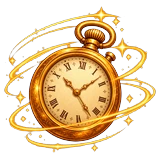
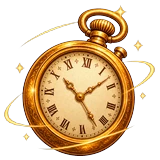
Emblemas de cabecera de Cálculo Turbo y Contrarreloj: versiones finales con transparencia limpia
Claude-Session: https://claude.ai/code/session_019qqTirXMj9sHEJCbD9nmLh

diff --git a/index.html b/index.html
@@ -49,21 +49,21 @@
 <!-- Tipografía: Playfair Display para el "display" institucional (nombre de la
      app / títulos), Inter para toda la interfaz funcional. Alojadas en la propia app
      (styles/fonts.css, assets/fonts/): funcionan sin conexión y no dependen de Google. -->
-<link rel="stylesheet" href="styles/fonts.css?v=431">
+<link rel="stylesheet" href="styles/fonts.css?v=432">
 <link rel="preload" href="assets/fonts/inter-latin.woff" as="font" type="font/woff" crossorigin>
-<link rel="stylesheet" href="styles/main.css?v=431">
+<link rel="stylesheet" href="styles/main.css?v=432">
 <!-- v1.4: estilos de la capa online (cuenta, migración, ranking). Solo clases .seq-* -->
-<link rel="stylesheet" href="styles/online.css?v=431">
-<link rel="stylesheet" href="styles/results-frame.css?v=431">
-<link rel="stylesheet" href="styles/visual-2-3.css?v=431">
-<link rel="stylesheet" href="styles/light-refresh.css?v=431">
-<link rel="stylesheet" href="styles/encargos.css?v=431">
-<link rel="stylesheet" href="styles/encargos-intro.css?v=431">
-<link rel="stylesheet" href="styles/duel-intro.css?v=431">
-<link rel="stylesheet" href="styles/sir-events.css?v=431">
-<link rel="stylesheet" href="styles/reward-toast.css?v=431">
-<link rel="stylesheet" href="styles/theme.css?v=431">
-<link rel="stylesheet" href="styles/privacy.css?v=431">
+<link rel="stylesheet" href="styles/online.css?v=432">
+<link rel="stylesheet" href="styles/results-frame.css?v=432">
+<link rel="stylesheet" href="styles/visual-2-3.css?v=432">
+<link rel="stylesheet" href="styles/light-refresh.css?v=432">
+<link rel="stylesheet" href="styles/encargos.css?v=432">
+<link rel="stylesheet" href="styles/encargos-intro.css?v=432">
+<link rel="stylesheet" href="styles/duel-intro.css?v=432">
+<link rel="stylesheet" href="styles/sir-events.css?v=432">
+<link rel="stylesheet" href="styles/reward-toast.css?v=432">
+<link rel="stylesheet" href="styles/theme.css?v=432">
+<link rel="stylesheet" href="styles/privacy.css?v=432">
 
 </head>
 <body class="on-home">
@@ -1151,59 +1151,59 @@ try {
 <!-- Fase 2: datos y constantes extraidos a modulos, cargados como scripts
      clasicos (no ES Modules) para conservar el scope global compartido con
      el script principal, sin convertir todavia la app a ES Modules. -->
-<script src="src/data/ui-maps.js?v=431"></script>
-<script src="src/data/questions.js?v=431"></script>
-<script src="src/data/questions-retired.js?v=431"></script>
-<script src="src/data/phrases.js?v=431"></script>
-<script src="src/data/duel-phrases.js?v=431"></script>
-<script src="src/data/lucidez.js?v=431"></script>
-<script src="src/data/medals.js?v=431"></script>
+<script src="src/data/ui-maps.js?v=432"></script>
+<script src="src/data/questions.js?v=432"></script>
+<script src="src/data/questions-retired.js?v=432"></script>
+<script src="src/data/phrases.js?v=432"></script>
+<script src="src/data/duel-phrases.js?v=432"></script>
+<script src="src/data/lucidez.js?v=432"></script>
+<script src="src/data/medals.js?v=432"></script>
 <!-- Prompt 3 — Fase C: sistema de avatares compartido (window.SEQAvatars). Debe
      cargarse antes de src/online/online.js y src/online/duels.js: ambos lo
      consumen en vez de mantener cada uno su propia copia de la lista. -->
-<script src="src/data/avatars.js?v=431"></script>
-<script src="src/share/share-card.js?v=431"></script>
+<script src="src/data/avatars.js?v=432"></script>
+<script src="src/share/share-card.js?v=432"></script>
 
 <!-- Fase 3 (Lote 3A): motor de coincidencia de respuestas extraido a
      src/utils/matching.js, mismo criterio que la Fase 2 (script clasico,
      sin ES Modules todavia). -->
-<script src="src/utils/matching.js?v=431"></script>
-<script src="src/utils/review-batch.js?v=431"></script>
-<script src="src/utils/records-reset.js?v=431"></script>
-<script src="src/utils/answer-alias.js?v=431"></script>
-<script src="src/utils/lucidez-select.js?v=431"></script>
-<script src="src/state/lucidez-bag.js?v=431"></script>
-<script src="src/state/timetrial-bag.js?v=431"></script>
-<script src="src/utils/encargos-core.js?v=431"></script>
-<script src="src/utils/encargos-progress.js?v=431"></script>
-<script src="src/state/encargos.js?v=431"></script>
-<script src="src/data/encargos-phrases.js?v=431"></script>
-<script src="src/ui/encargos-ui.js?v=431"></script>
-<script src="src/data/named-phrases.js?v=431"></script>
-<script src="src/utils/named-phrases.js?v=431"></script>
-<script src="src/utils/encargos-intro-core.js?v=431"></script>
-<script src="src/data/encargos-intro-phrases.js?v=431"></script>
-<script src="src/ui/encargos-intro.js?v=431"></script>
-<script src="src/ui/duel-intro.js?v=431"></script>
-<script src="src/data/home-quotes.js?v=431"></script>
-<script src="src/ui/home-quote.js?v=431"></script>
-<script src="src/utils/sir-events.js?v=431"></script>
-<script src="src/ui/sir-events-ui.js?v=431"></script>
-<script src="src/state/sir-events.js?v=431"></script>
-<script src="src/utils/sudden-progression.js?v=431"></script>
-<script src="src/utils/mental-calc.js?v=431"></script>
-<script src="src/utils/mental-classic.js?v=431"></script>
-<script src="src/utils/mental-tips.js?v=431"></script>
-<script src="src/ui/mental-classic-ui.js?v=431"></script>
-<script src="src/ui/mental-menu.js?v=431"></script>
-<script src="src/ui/level-up.js?v=431"></script>
+<script src="src/utils/matching.js?v=432"></script>
+<script src="src/utils/review-batch.js?v=432"></script>
+<script src="src/utils/records-reset.js?v=432"></script>
+<script src="src/utils/answer-alias.js?v=432"></script>
+<script src="src/utils/lucidez-select.js?v=432"></script>
+<script src="src/state/lucidez-bag.js?v=432"></script>
+<script src="src/state/timetrial-bag.js?v=432"></script>
+<script src="src/utils/encargos-core.js?v=432"></script>
+<script src="src/utils/encargos-progress.js?v=432"></script>
+<script src="src/state/encargos.js?v=432"></script>
+<script src="src/data/encargos-phrases.js?v=432"></script>
+<script src="src/ui/encargos-ui.js?v=432"></script>
+<script src="src/data/named-phrases.js?v=432"></script>
+<script src="src/utils/named-phrases.js?v=432"></script>
+<script src="src/utils/encargos-intro-core.js?v=432"></script>
+<script src="src/data/encargos-intro-phrases.js?v=432"></script>
+<script src="src/ui/encargos-intro.js?v=432"></script>
+<script src="src/ui/duel-intro.js?v=432"></script>
+<script src="src/data/home-quotes.js?v=432"></script>
+<script src="src/ui/home-quote.js?v=432"></script>
+<script src="src/utils/sir-events.js?v=432"></script>
+<script src="src/ui/sir-events-ui.js?v=432"></script>
+<script src="src/state/sir-events.js?v=432"></script>
+<script src="src/utils/sudden-progression.js?v=432"></script>
+<script src="src/utils/mental-calc.js?v=432"></script>
+<script src="src/utils/mental-classic.js?v=432"></script>
+<script src="src/utils/mental-tips.js?v=432"></script>
+<script src="src/ui/mental-classic-ui.js?v=432"></script>
+<script src="src/ui/mental-menu.js?v=432"></script>
+<script src="src/ui/level-up.js?v=432"></script>
 
 <!-- Fase 3 (Lote 3B): nucleo algoritmico de Duelo extraido a
      src/utils/duel.js, mismo criterio que el resto (script clasico, sin
      ES Modules todavia). Las dependencias compartidas con otros modos
      (arrangeStandardBlock, generateLucidezMentalOp)
      permanecen en este script principal, sin moverse en este lote. -->
-<script src="src/utils/duel.js?v=431"></script>
+<script src="src/utils/duel.js?v=432"></script>
 
 <!-- Fase 3 (Lote 3C): defaults, migracion y saneamiento del Store
      extraidos a src/utils/store.js, mismo criterio que el resto (script
@@ -1215,60 +1215,60 @@ try {
      getLevelData) y las 8 funciones de persistencia real (loadStore,
      saveStore, exportProgress...) permanecen en este script principal,
      sin moverse en este lote. -->
-<script src="src/utils/store.js?v=431"></script>
+<script src="src/utils/store.js?v=432"></script>
 
 <!-- Fase 4B: fachada de estado de solo lectura (getStore/getCurrentGame),
      mismo criterio que el resto (script clasico, sin ES Modules todavia).
      No copia, no transforma, no cachea. Ver src/state/read-facade.js. -->
-<script src="src/state/read-facade.js?v=431"></script>
+<script src="src/state/read-facade.js?v=432"></script>
 
-<script src="src/utils/streak-xp.js?v=431"></script>
+<script src="src/utils/streak-xp.js?v=432"></script>
 <!-- Fase 4C: helpers minimos de escritura (pushCapped, resetStreak) para
      eliminar 2 duplicaciones reales concretas -- no un sistema de
      mutaciones. Ver src/state/write-helpers.js y CHANGELOG_FASE4C.md. -->
-<script src="src/state/write-helpers.js?v=431"></script>
+<script src="src/state/write-helpers.js?v=432"></script>
 
 <!-- v1.4: capa online (cuenta Google, sincronización, migración, ranking).
      config.js es PÚBLICO (URL del Worker + Client ID de Google); si está
      vacío, la capa online queda desactivada y la app es idéntica a la v1.3.
      online.js solo usa el store/funciones del juego en tiempo de ejecución. -->
-<script src="src/ui/install-app.js?v=431"></script>
-<script src="src/share/invite.js?v=431"></script>
-<script src="src/ui/reward-toast.js?v=431"></script>
-<script src="src/ui/privacy.js?v=431"></script>
-<script src="src/ui/a11y.js?v=431"></script>
-<script src="src/ui/back-nav.js?v=431"></script>
-<script src="src/ui/game-fx.js?v=431"></script>
-<script src="src/ui/last-life.js?v=431"></script>
-<script src="src/ui/hitos.js?v=431"></script>
-<script src="src/ui/achievements.js?v=431"></script>
-<script src="src/ui/stats-extra.js?v=431"></script>
-<script src="src/ui/name-prompt.js?v=431"></script>
-<script src="src/ui/intro.js?v=431"></script>
-<script src="src/ui/mode-badges.js?v=431"></script>
-<script src="src/ui/lucidez-ui.js?v=431"></script>
-<script src="src/ui/sabias.js?v=431"></script>
-<script src="src/ui/icons.js?v=431"></script>
-<script src="src/online/config.js?v=431"></script>
+<script src="src/ui/install-app.js?v=432"></script>
+<script src="src/share/invite.js?v=432"></script>
+<script src="src/ui/reward-toast.js?v=432"></script>
+<script src="src/ui/privacy.js?v=432"></script>
+<script src="src/ui/a11y.js?v=432"></script>
+<script src="src/ui/back-nav.js?v=432"></script>
+<script src="src/ui/game-fx.js?v=432"></script>
+<script src="src/ui/last-life.js?v=432"></script>
+<script src="src/ui/hitos.js?v=432"></script>
+<script src="src/ui/achievements.js?v=432"></script>
+<script src="src/ui/stats-extra.js?v=432"></script>
+<script src="src/ui/name-prompt.js?v=432"></script>
+<script src="src/ui/intro.js?v=432"></script>
+<script src="src/ui/mode-badges.js?v=432"></script>
+<script src="src/ui/lucidez-ui.js?v=432"></script>
+<script src="src/ui/sabias.js?v=432"></script>
+<script src="src/ui/icons.js?v=432"></script>
+<script src="src/online/config.js?v=432"></script>
 <!-- v2.0: combinación de datos de jugador (mismo código que el servidor) y su sincronización -->
-<script src="src/utils/sync-merge.js?v=431"></script>
-<script src="src/online/data-sync.js?v=431"></script>
-<script src="src/online/online.js?v=431"></script>
+<script src="src/utils/sync-merge.js?v=432"></script>
+<script src="src/online/data-sync.js?v=432"></script>
+<script src="src/online/online.js?v=432"></script>
 <!-- v1.5: Amigos, Duelo online y Retos. El servidor decide preguntas, tiempo, aciertos y ganador. -->
-<script src="src/state/result-heard.js?v=431"></script>
-<script src="src/state/multi-result.js?v=431"></script>
-<script src="src/online/reto-fx.js?v=431"></script>
-<script src="src/online/duels.js?v=431"></script>
+<script src="src/state/result-heard.js?v=432"></script>
+<script src="src/state/multi-result.js?v=432"></script>
+<script src="src/online/reto-fx.js?v=432"></script>
+<script src="src/online/duels.js?v=432"></script>
 <!-- 2.1: Duelo por apuestas, ELO PvP, Rankings y estadísticas de Duelos (solo presentación; decide el servidor) -->
-<script src="src/online/duels-v21.js?v=431"></script>
-<script src="src/online/multi-duels.js?v=431"></script>
-<script src="src/online/multi-stakes.js?v=431"></script>
+<script src="src/online/duels-v21.js?v=432"></script>
+<script src="src/online/multi-duels.js?v=432"></script>
+<script src="src/online/multi-stakes.js?v=432"></script>
 <!-- 2.3: ficha pública de un jugador (resumen, récords, PvP y solicitud de amistad) -->
-<script src="src/online/player-profile.js?v=431"></script>
-<script src="src/online/inbox.js?v=431"></script>
-<script src="src/online/push.js?v=431"></script>
+<script src="src/online/player-profile.js?v=432"></script>
+<script src="src/online/inbox.js?v=432"></script>
+<script src="src/online/push.js?v=432"></script>
 <!-- Audio: sonidos del juego (src/audio/audio.js) -->
-<script src="src/audio/audio.js?v=431"></script>
+<script src="src/audio/audio.js?v=432"></script>
 
 <script>
 function closeWelcomeModal() {
@@ -7306,6 +7306,6 @@ window.addEventListener('appinstalled', () => {
   hidePwaHint();
 });
 </script>
-<script src="src/ui/resume-clock.js?v=431"></script>
+<script src="src/ui/resume-clock.js?v=432"></script>
 </body>
 </html>

diff --git a/sw.js b/sw.js
@@ -38,7 +38,7 @@
 // styles/main.css, src/data/medals.js, src/utils/store.js y src/online/duels.js (ya en el shell).
 // 2.0 (Prompt 5, tarjeta de compartir): subido de 10 a 11; nuevo src/share/share-card.js
 // (añadido al shell) y cambiaron index.html y src/online/duels.js.
-const CACHE_VERSION = 431;
+const CACHE_VERSION = 432;
 // Dos cachés (ver install/fetch más abajo):
 //  · CACHE_NAME  (versionada): index.html, CSS, JS, manifest e iconos. Es poco y es imprescindible: si no se puede guardar, la
 //    versión nueva no se instala y se queda la anterior.
@@ -637,8 +637,8 @@ const ASSET_REVS = {
   './assets/modes/duelo.webp': 'a4a67f60',
   './assets/modes/emblema/ameba.webp': 'f63f2828',
   './assets/modes/emblema/calculo-clasico.webp': '5c93e490',
-  './assets/modes/emblema/calculo-turbo.webp': '2f945c92',
-  './assets/modes/emblema/contrarreloj.webp': '7a0e77da',
+  './assets/modes/emblema/calculo-turbo.webp': '2828432d',
+  './assets/modes/emblema/contrarreloj.webp': '7a1ed85a',
   './assets/modes/emblema/derrame.webp': 'edf48e3d',
   './assets/modes/emblema/duelo-apuestas.webp': 'cbcbc473',
   './assets/modes/emblema/duelo-clasico.webp': '649ded14',
